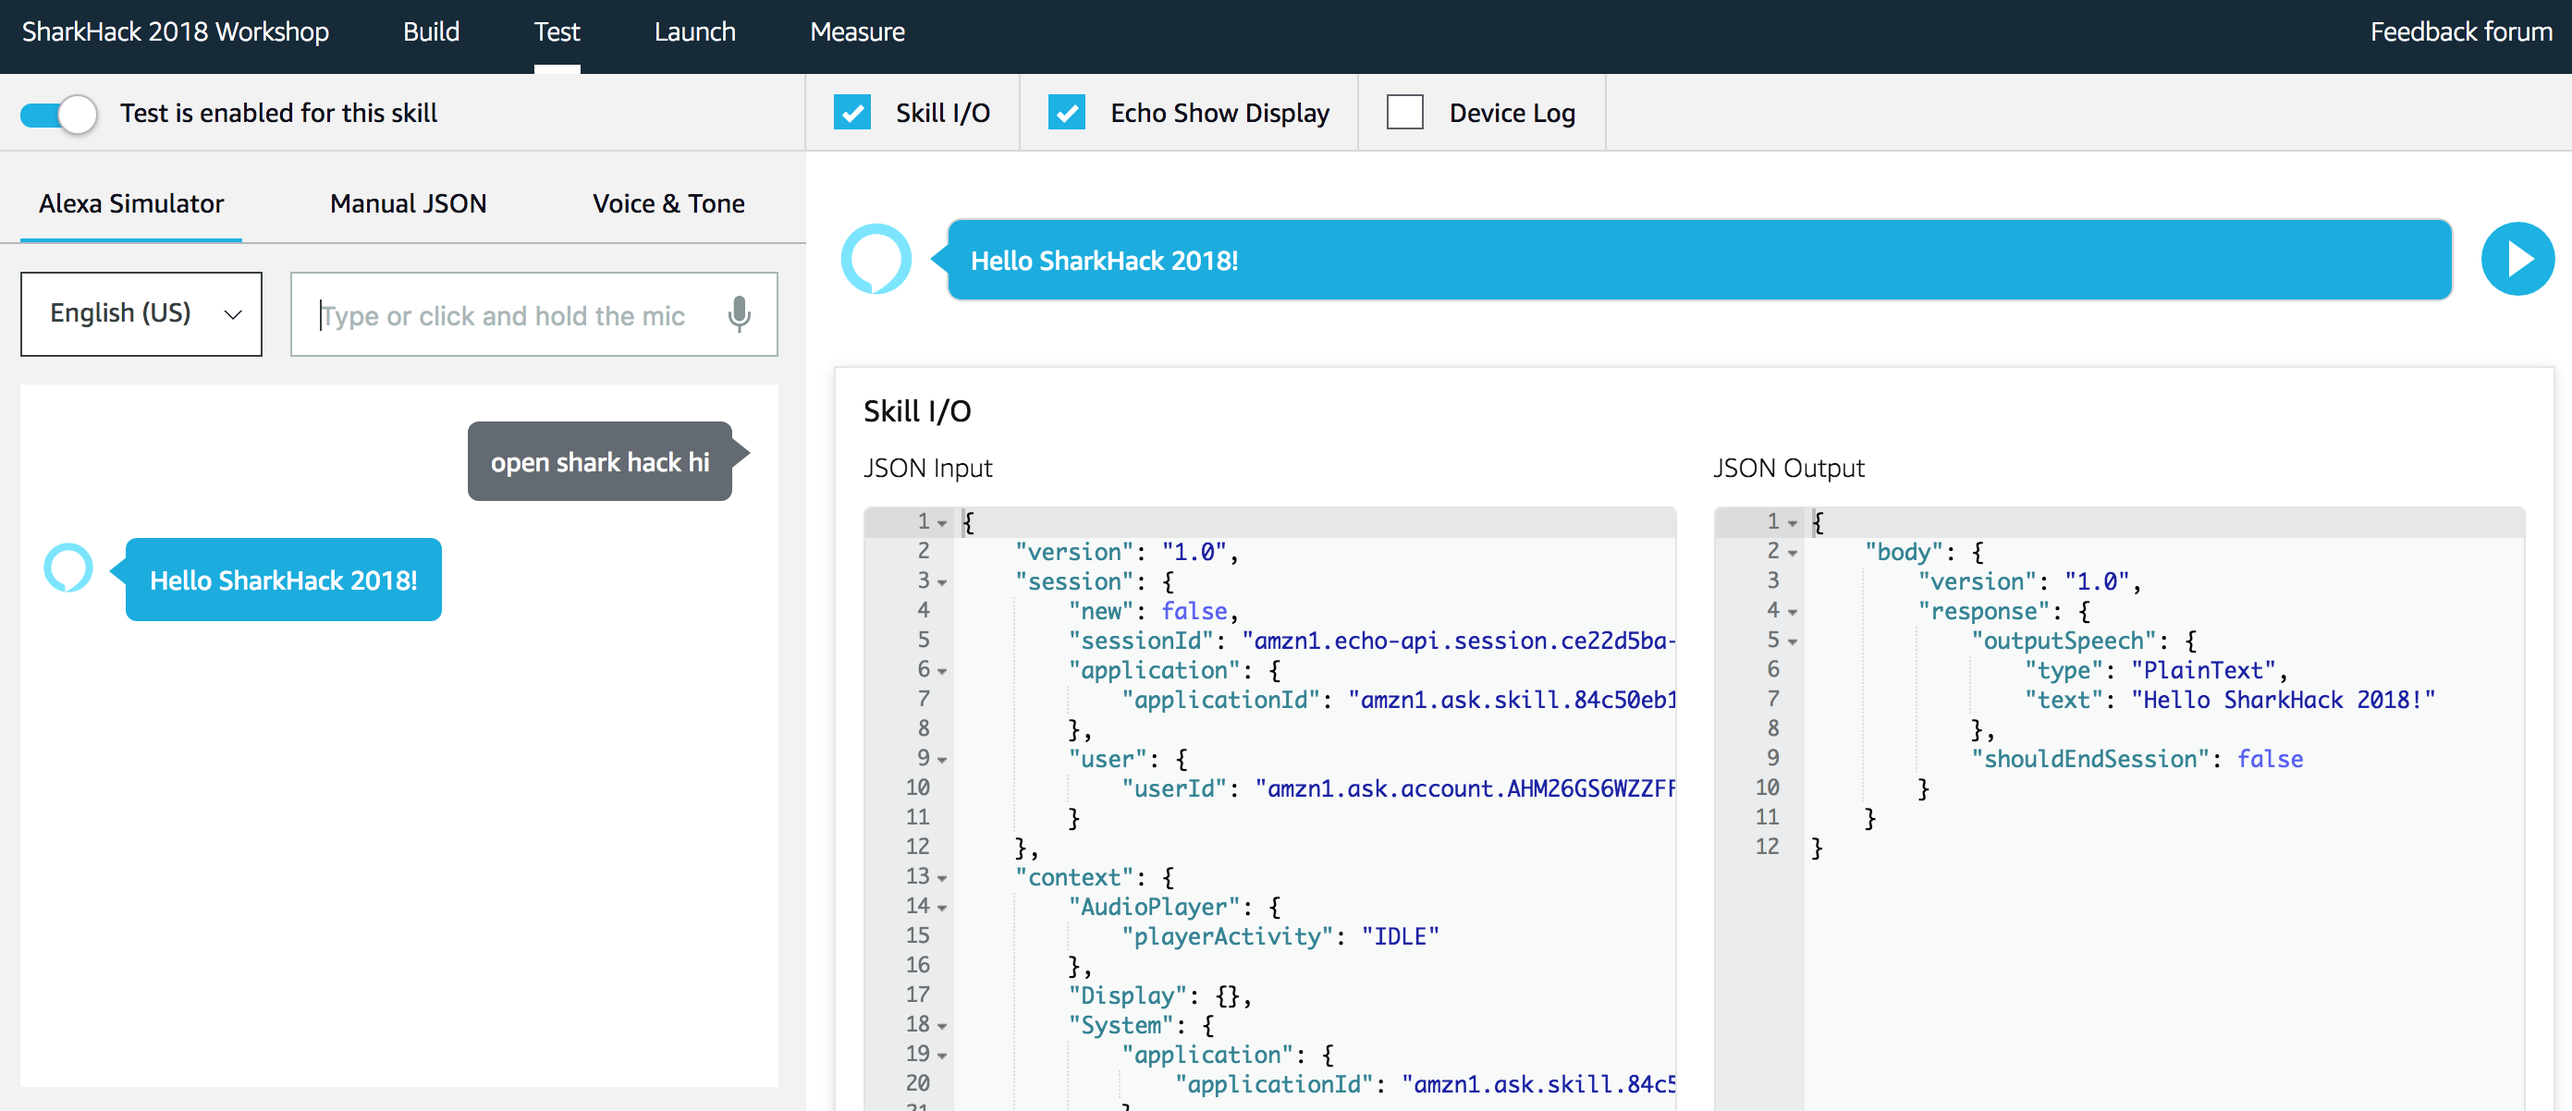
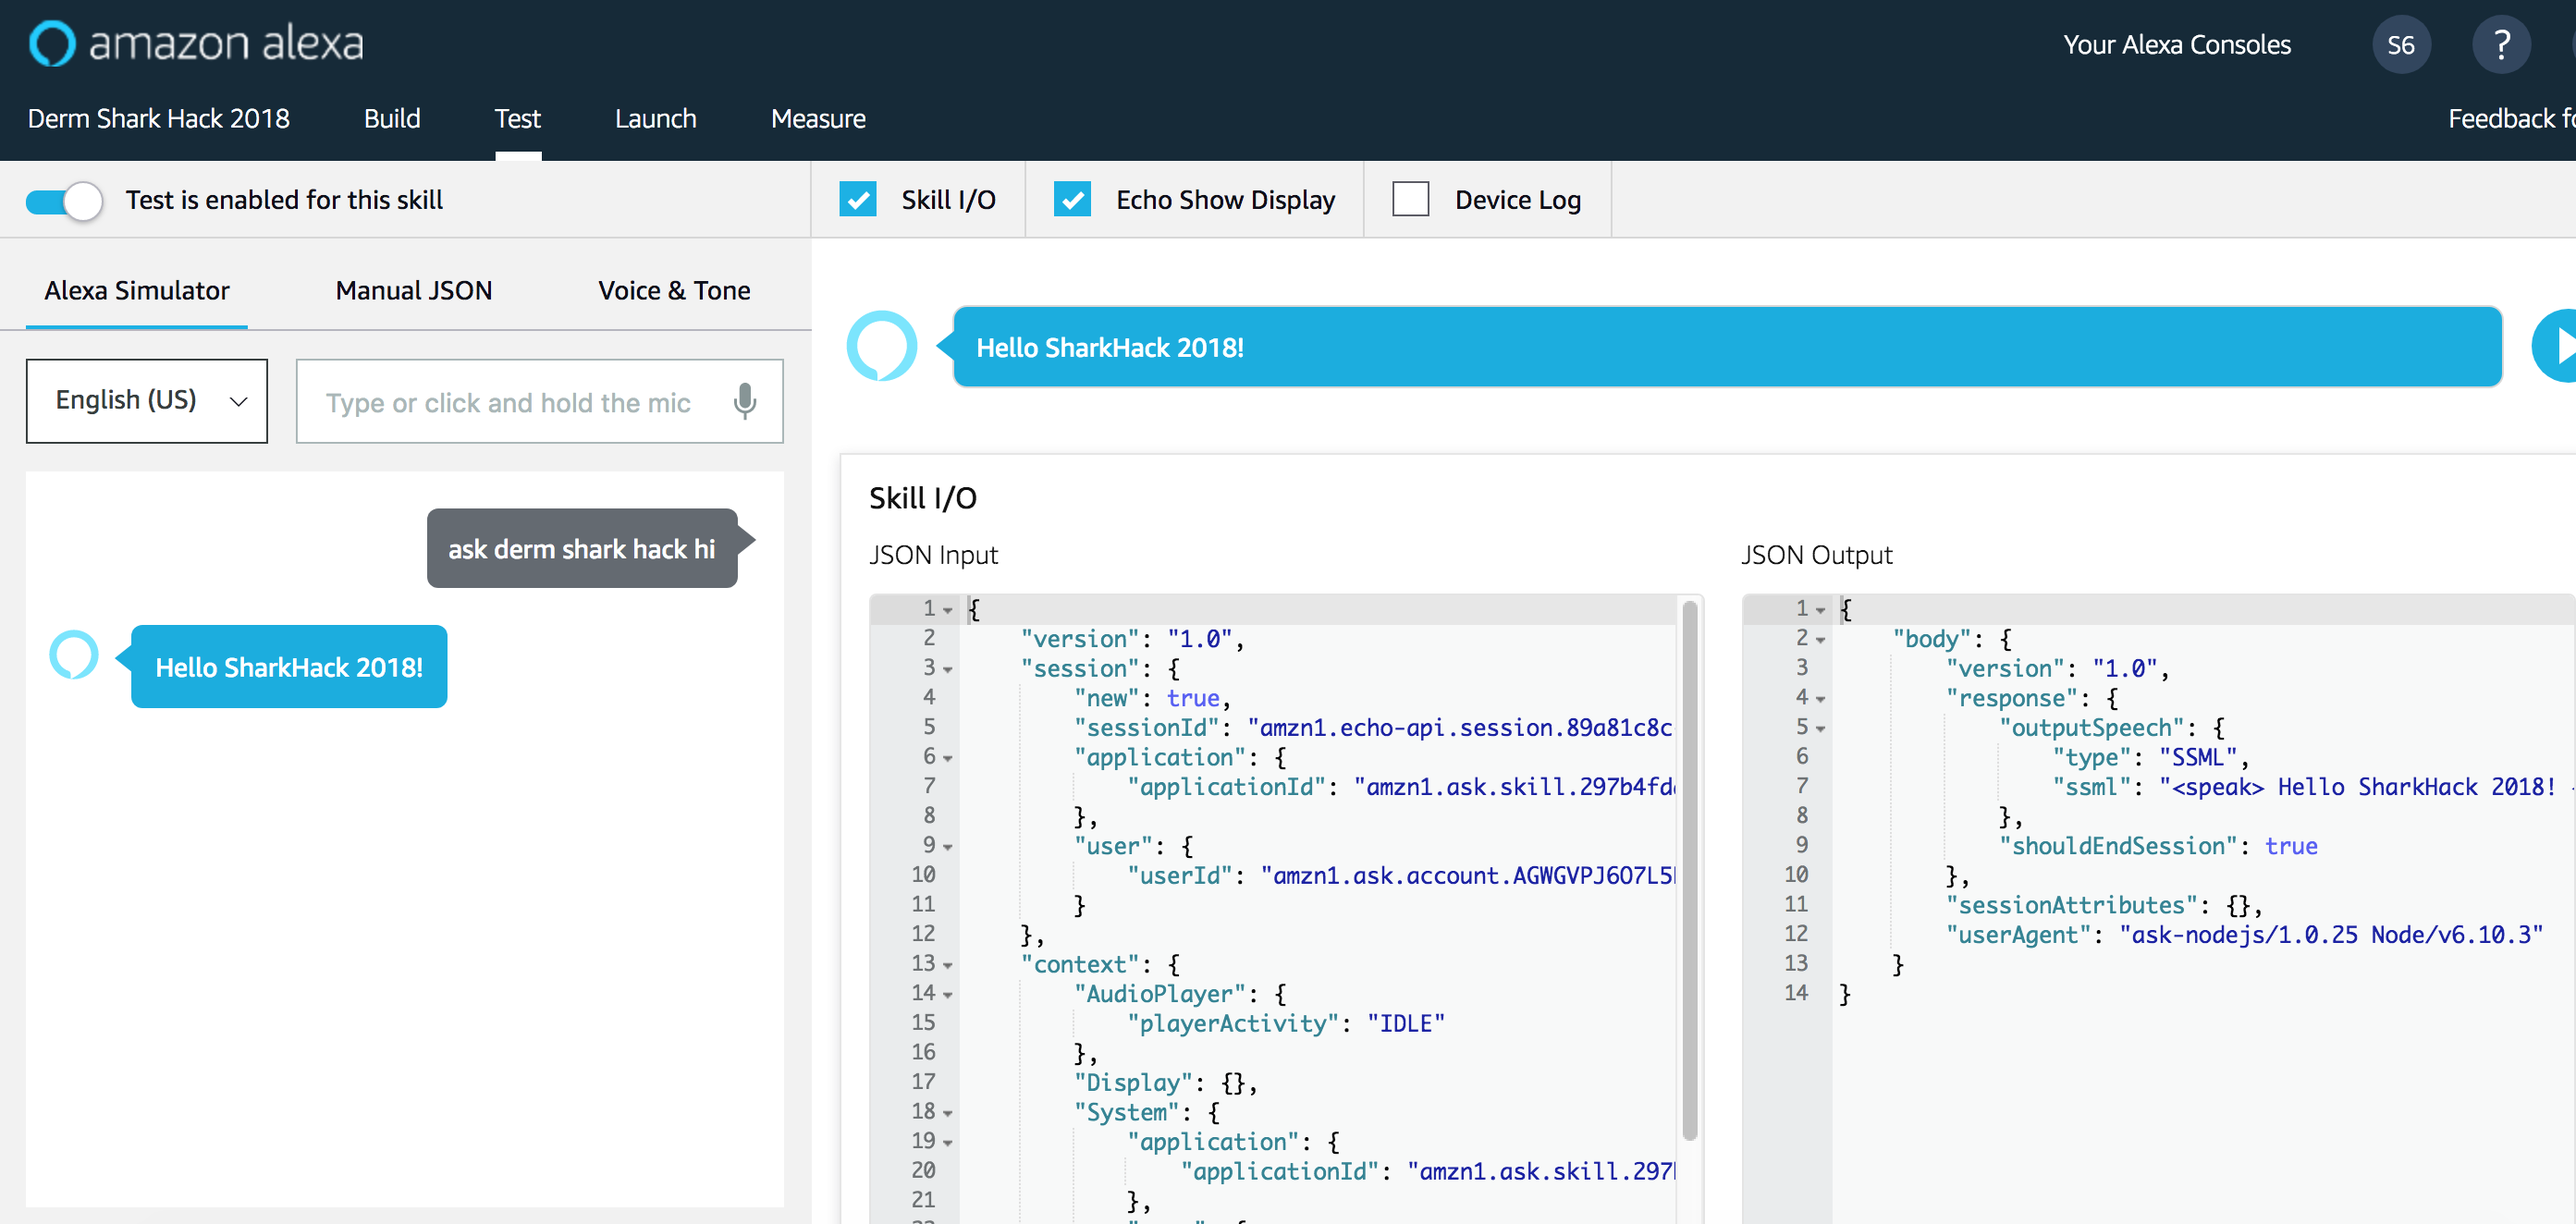
updating skill test and removing resources from setup

diff --git a/03_alexa_skill/README.md b/03_alexa_skill/README.md
@@ -64,7 +64,7 @@ Back to the Alexa Developer Console, and click Endpoint, and paste this ARN into
 ![Alexa Developer Endpoint](../images/Alexa%20Console%20-%2010%20-%20Endpoint.png)
 
 # Test our Skill
-With this complete, click the Test in the menu, and enter: 'open shark hack hi' and expect to get our response from the lambda:
+With this complete, click the Test in the menu, and enter: 'ask {your name} shark hack hi' and expect to get our response from the lambda:
 
 ![Alexa Developer Test](../images/Alexa%20Console%20-%2011%20-%20Test.png)
 

diff --git a/01_setup/README.md b/01_setup/README.md
@@ -2,9 +2,6 @@
 ![Setup](../images/SharkHack%202018%20Alexa%20Workshop%20Banner%20-%20Setup.png)
 What we need to get going!
 
-## Resources
-The [resources](../resources) folder contains all the code used in cloud9... This will already be available in your cloud9 environment but if it gets deleted or overwritten you can always copy it over again from here.
-
 # AWS Account
 Each participant can get an AWS login [here](https://goo.gl/forms/BzgILD0XIBlkxR5K2) - the password will be provided in the workshop!
 
